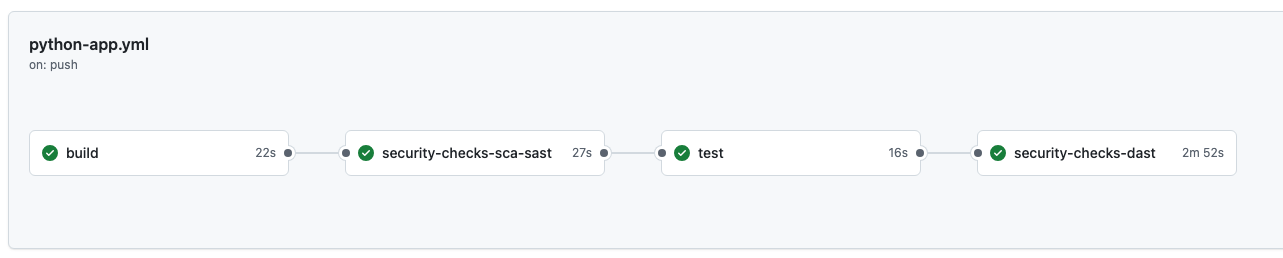
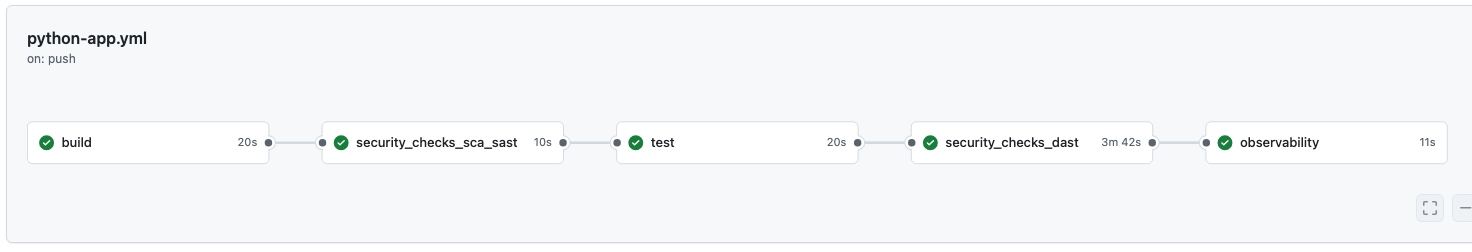
feat: update docs

diff --git a/docs/observability.md b/docs/observability.md
@@ -1,0 +1,264 @@
+# CI/CD Observability avec Prometheus et Grafana
+
+## 1. Objectif
+
+L’objectif de cette configuration est de **monitorer ton pipeline CI/CD** pour :
+
+- Savoir **le statut global du pipeline** (succès, échec, annulé)
+- Suivre **le statut de chaque job** individuellement
+- Collecter des métriques pour visualisation et alerting
+- Maintenir une **traçabilité** des exécutions
+
+L’avantage : détecter rapidement les problèmes, améliorer la qualité et la fiabilité de tes déploiements.
+
+---
+
+## 2. Outils/Stack utilisés
+
+| Outil | Rôle |
+| --- | --- |
+| **GitHub Actions** | Exécute le pipeline CI/CD |
+| **Python script (`observability_metrics.py`)** | Génère des métriques Prometheus à partir des résultats des jobs |
+| **Prometheus** | Collecte les métriques exposées par Pushgateway ou fichiers `.prom` |
+| **Pushgateway** | Permet à GitHub Actions d’envoyer des métriques « push » vers Prometheus |
+| **Grafana** | Visualise les métriques et crée des dashboards |
+
+---
+
+## 3. Architecture
+
+```
+GitHub Actions CI/CD
+       │
+       ▼
+observability_metrics.py → observability.prom
+       │
+       ▼
+   Pushgateway
+       │
+       ▼
+   Prometheus scrape
+       │
+       ▼
+     Grafana dashboard
+```
+
+---
+
+## 4. Setup Docker Compose
+
+Crée un fichier `docker-compose.yml` :
+
+```
+version:"3.8"
+
+services:
+  prometheus:
+    image: prom/prometheus:latest
+    container_name: prometheus
+    ports:
+      -"9090:9090"
+    volumes:
+      - ./prometheus.yml:/etc/prometheus/prometheus.yml
+      - ./data/prometheus:/prometheus
+    restart: unless-stopped
+
+  pushgateway:
+    image: prom/pushgateway:latest
+    container_name: pushgateway
+    ports:
+      -"9091:9091"
+    restart: unless-stopped
+
+  grafana:
+    image: grafana/grafana:latest
+    container_name: grafana
+    ports:
+      -"3000:3000"
+    volumes:
+      - ./data/grafana:/var/lib/grafana
+    restart: unless-stopped
+```
+
+---
+
+## 5. Configuration Prometheus
+
+Crée `prometheus.yml` :
+
+```
+global:
+  scrape_interval: 5s
+
+scrape_configs:
+  - job_name:"prometheus"
+    static_configs:
+      - targets: ["localhost:9090"]
+
+  - job_name:"pushgateway"
+    static_configs:
+      - targets: ["pushgateway:9091"]
+```
+
+---
+
+## 6. Lancer le stack
+
+```
+docker-compose up-d
+```
+
+- Prometheus : http://localhost:9090
+- Grafana : http://localhost:3000 (admin/admin)
+
+---
+
+## 7. GitHub Actions – Observability
+
+Dans ton job `observability`, expose **les statuts globaux et individuels** :
+
+```
+env:
+    BUILD_STATUS: ${{ needs.build.result }}
+    SCA_SAST_STATUS: ${{ needs.security_checks_sca_sast.result }}
+    TEST_STATUS: ${{ needs.test.result }}
+    DAST_STATUS: ${{ needs.security_checks_dast.result }}
+    CI_PIPELINE_STATUS: ${{ 
+    contains(needs.*.result, 'failure') && 'failure' ||
+    contains(needs.*.result, 'cancelled') && 'cancelled' ||
+    'success' }}
+    CI_PIPELINE_VERSION: ${{ github.ref_name }}
+    GITHUB_RUN_ID: ${{ github.run_id }}
+    GITHUB_RUN_NUMBER: ${{ github.run_number }}
+    GITHUB_RUN_ATTEMPT: ${{ github.run_attempt }}
+    GITHUB_JOB: ${{ github.job }}
+    GITHUB_WORKFLOW: ${{ github.workflow }}
+    GITHUB_REF: ${{ github.ref }}
+    GITHUB_REF_NAME: ${{ github.ref_name }}
+    GITHUB_SHA: ${{ github.sha }}
+    GITHUB_REPOSITORY: ${{ github.repository }}
+    GITHUB_ACTOR: ${{ github.actor }}
+    GITHUB_EVENT_NAME: ${{ github.event_name }}
+```
+
+Puis **push des métriques** :
+
+en local pour faire des tests, remplacer PUSHGATEWAY_URL par http://localhost:9091
+```
+curl-X POST--data-binary @observability.prom \
+"$PUSHGATEWAY_URL/metrics/job/devsecops-pipeline/instance/${GITHUB_RUN_ID}"
+```
+
+---
+
+## 8. Python script
+
+On Génère un fichier .prom qui contient des métriques Prometheus produites à des résultats des jobs (build, tests, analyse vulnérabilités)
+
+ex: 
+on doit avoir en amont les fichiers pytest et coverage
+
+python .github/scripts/observability_metrics.py \
+            --junit artifacts/pytest-results.xml \
+            --coverage artifacts/coverage.xml \
+            --out observability.prom
+
+---
+
+## 9. Exemple de métriques Prometheus
+
+```
+# HELP ci_pipeline_info Informations définissant le pipeline GH Actions
+# TYPE ci_pipeline_info gauge
+ci_pipeline_info{run_id="23314489843",run_number="23",run_attempt="1",workflow="Python application",job="observability",repository="Alexon1999/devsecops-pipeline",ref="refs/heads/main",ref_name="main",sha="e013f3e2770c784a991a87d5b9fb33147413a6a0",actor="Alexon1999",event_name="push",version="main",status="success",build_status="success",sca_sast_status="success",test_status="success",dast_status="success"} 1
+# HELP ci_pipeline_status Statut détaillé du pipeline
+# TYPE ci_pipeline_status gauge
+ci_pipeline_status{status="success"} 1
+# HELP ci_pipeline_test_total nombre total de tests exécutés
+# TYPE ci_pipeline_test_total gauge
+ci_pipeline_test_total 2
+# HELP ci_pipeline_test_failures nombre de tests échoués
+# TYPE ci_pipeline_test_failures gauge
+ci_pipeline_test_failures 0
+# HELP ci_pipeline_test_errors nombre de tests en erreur
+# TYPE ci_pipeline_test_errors gauge
+ci_pipeline_test_errors 0
+# HELP ci_pipeline_test_skipped nombre de tests sautés
+# TYPE ci_pipeline_test_skipped gauge
+ci_pipeline_test_skipped 0
+# HELP ci_pipeline_test_duration_seconds durée totale des tests en secondes
+# TYPE ci_pipeline_test_duration_seconds gauge
+ci_pipeline_test_duration_seconds 1.583
+# HELP ci_pipeline_coverage_line_rate taux de couverture des lignes (0..1)
+# TYPE ci_pipeline_coverage_line_rate gauge
+ci_pipeline_coverage_line_rate 0.8018
+# HELP ci_pipeline_coverage_branch_rate taux de couverture des branches (0..1)
+# TYPE ci_pipeline_coverage_branch_rate gauge
+ci_pipeline_coverage_branch_rate 0.0
+# HELP ci_pipeline_coverage_statements nombre total de statements analysés
+# TYPE ci_pipeline_coverage_statements gauge
+ci_pipeline_coverage_statements 111
+# HELP ci_pipeline_coverage_missed nombre de statements manquants
+# TYPE ci_pipeline_coverage_missed gauge
+ci_pipeline_coverage_missed 22
+# HELP ci_pipeline_coverage_percent pourcentage de couverture des statements (0-100)
+# TYPE ci_pipeline_coverage_percent gauge
+ci_pipeline_coverage_percent 80.17999999999999
+# HELP ci_pipeline_stage_status Statut des étapes principales du pipeline
+# TYPE ci_pipeline_stage_status gauge
+ci_pipeline_stage_status{stage="build",status="success"} 1
+ci_pipeline_stage_status{stage="sca_sast",status="success"} 1
+ci_pipeline_stage_status{stage="test",status="success"} 1
+ci_pipeline_stage_status{stage="dast",status="success"} 1
+ci_pipeline_stage_status{stage="ci",status="success"} 1
+```
+
+- `1` = success, `0` = failure
+
+---
+
+## 10. Visualisation Grafana
+
+1. Ajouter une **data source** : Prometheus (`http://prometheus:9090`)
+2. Créer un dashboard avec panels :
+
+| Panel | Requête Prometheus | Type |
+| --- | --- | --- |
+| Statut global pipeline | `ci_pipeline_status` | Stat |
+| Statut par job | `ci_job_status` | Gauge |
+| Taux de réussite | `sum(ci_job_status)/count(ci_job_status)` | Graph |
+
+
+exemple :
+
+![grafana dashboard.png](../images/dashboard.png)
+
+
+---
+
+## 11. Test E2E du setup
+
+1. Lancer le stack Docker Compose :
+
+**le serveur prometheus pushgateway doit être accessible par runner github actions**
+
+```
+docker-compose up-d
+```
+
+1. Exécuter un pipeline GitHub Actions avec le job `observability`
+2. Vérifier dans Pushgateway que les métriques sont présentes :
+    
+    http://localhost:9091/
+    http://localhost:9091/metrics
+    
+3. Aller sur Grafana et importer les métriques
+
+---
+
+## 12. Intérêt d’Observability pour un pipeline CI/CD
+
+- ✅ **Traçabilité** : garder l’historique des pipelines
+- ✅ **Alerting** : Grafana + Alertmanager peuvent prévenir immédiatement les équipes
+- ✅ **Amélioration continue** : identifier les étapes les plus instables
+- ✅ **Reporting** : dashboards pour management et DevOps

diff --git a/README.md b/README.md
@@ -4,7 +4,7 @@ This project demonstrates the implementation of a DevSecOps pipeline to secure a
 
 The pipeline includes the following stages:
 
-![alt text](<images/pipeline.png>)
+![pipeline](<images/pipeline.png>)
 
 - **SCA** (Software Composition Analysis) scan : Analysis of the application’s open-source libraries and dependencies to detect known vulnerabilities, outdated versions, and license risks.
 - **SAST** (Static Application Security Testing) scan: Static analysis of the source code to detect vulnerabilities before execution, by reviewing each line of code.
@@ -26,6 +26,26 @@ The pipeline includes the following stages:
 - **Integration Tests** focus on verifying the interactions between different modules or components of the API. They ensure that combined parts of the system work together as expected (e.g., database and API endpoints working in sync).
 - **Functional Tests** validate that a specific feature or function of the API behaves according to the requirements, typically by testing endpoints independently from their internal implementation.
 
+## Observability
+
+This project includes a CI/CD observability layer that collects and visualizes pipeline metrics to quickly detect regressions.
+
+CI/CD observability is used to quickly detect pipeline failures, track job health over time, and improve reliability by measuring success rate, test results, and security checks in one place.
+
+- **Prometheus** collects pipeline, tests, and security metrics.
+- **Grafana** builds dashboards (pipeline status, job status, success rate, test duration, coverage).
+- **Pushgateway** receives pushed metrics from GitHub Actions (observability job).
+- **Observability script** (`observability_metrics.py`) generates the `.prom` file from CI/CD piepline results.
+
+Recommended macro dashboard:
+1. Pipeline status (success/failure)
+2. Job statuses by stage (build, sca/sast, tests, dast)
+3. Tests (total, failed, skipped, duration)
+4. Coverage (%)
+
+if you want more detail, check this [documentation](./docs/observability.md)
+
+![grafana dashboard.png](./images/dashboard.png)
 
 ## Setup environment
 
